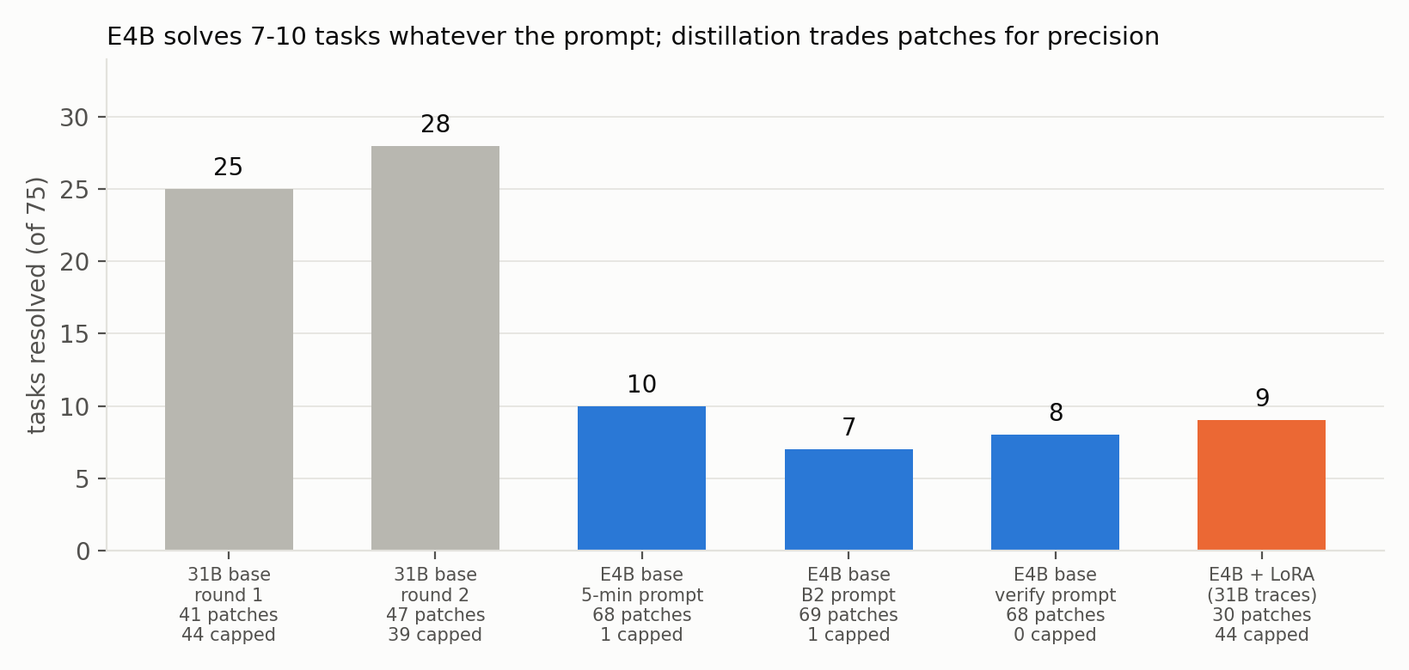
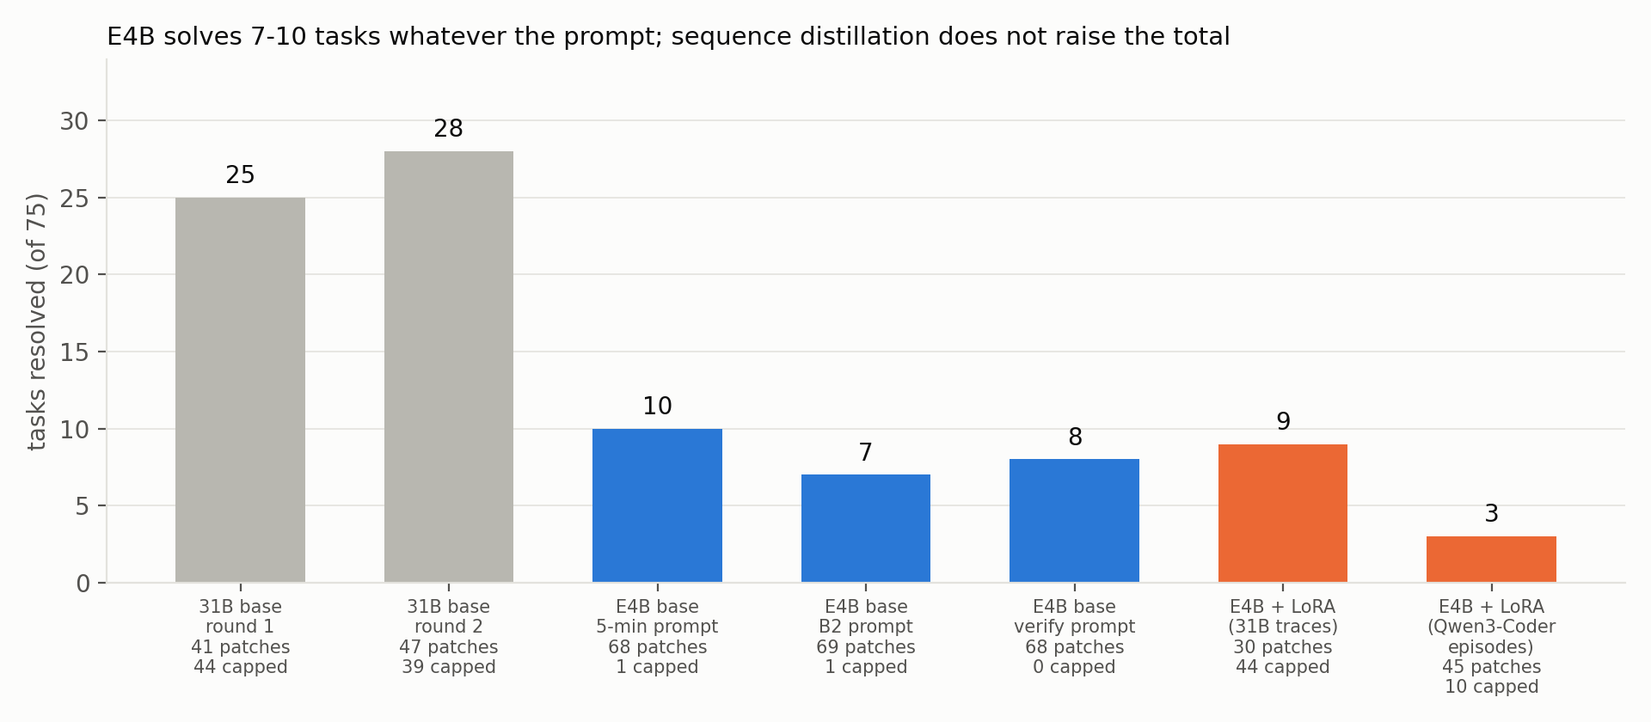
Relicense to Apache-2.0 (competition winner licence) with NOTICE; README reproduction guide; paper draft 4: findings, what transfers, figure order, appendix of all runs, Figure 6 with the Qwen3-Coder run; word count per host rule

Changed region(s): [[0.0, 0.1538, 0.9646, 0.9846], [0.0622, 0.0308, 0.8401, 0.0923], [0.0311, 0.1538, 0.0933, 0.1846]]

diff --git a/scripts/paper/count_words.py b/scripts/paper/count_words.py
@@ -1,15 +1,19 @@
-"""Word count of the paper draft (Kaggle Writeup limit: 3,000 words). Counts everything below the banner line, markdown syntax stripped, bracketed TODO items included.
+"""Word count of the paper draft (Kaggle Writeup limit: 3,000 words). Per the host (paper-track forum thread 749546), references do not count and an
+appendix is supplementary, so the counted body stops at "## References"; the editorial banner (lines starting with "> DRAFT") is excluded. Markdown syntax
+is stripped; bracketed placeholders count. Totals for references and the appendix are printed for information.
 Usage: python scripts/paper/count_words.py [docs/paper/DRAFT.md]"""
 import re, sys
 from pathlib import Path
 p = Path(sys.argv[1] if len(sys.argv) > 1 else "docs/paper/DRAFT.md")
-t = p.read_text(encoding="utf-8")
-body = "\n".join(l for l in t.splitlines() if not l.startswith("> DRAFT"))
-body = re.sub(r"[#*_`>|]", " ", body)
-words = re.findall(r"\S+", body)
-secs = re.split(r"\n(?=## )", t)
-print(f"total words: {len(words)} (limit 3000)")
-for s in secs:
-    head = s.splitlines()[0][:60]
-    n = len(re.findall(r"\S+", re.sub(r"[#*_`>|]", " ", s)))
-    print(f"  {n:5d}  {head}")
+t = "\n".join(l for l in p.read_text(encoding="utf-8").splitlines() if not l.startswith("> DRAFT"))
+body, _, tail = t.partition("\n## References")
+refs, _, appendix = tail.partition("\n## Appendix")
+
+
+def n(s):
+    return len(re.findall(r"\S+", re.sub(r"[#*_`>|]", " ", s)))
+
+
+print(f"counted words (body): {n(body)} (limit 3000) | references (not counted): {n(refs)} | appendix (supplementary): {n(appendix)}")
+for s in re.split(r"\n(?=## )", body):
+    print(f"  {n(s):5d}  {s.strip().splitlines()[0][:60]}")

diff --git a/scripts/paper/make_figures_2.py b/scripts/paper/make_figures_2.py
@@ -83,8 +83,12 @@ e4 = {"E4B base" + NL + "5-min prompt": R(D / "g14a_run1_2026-10-24/g14a/e4b/tas
       "E4B base" + NL + "verify prompt": R(D / "g14c_run1_2026-10-25/g14c/e4b_v/task_results.jsonl")}
 e4_lora = R(D / "g14b_run1_2026-10-25/g14b/e1/task_results.jsonl")
 bars = [("31B base" + NL + "round 1", runs["base r1"], GRAY), ("31B base" + NL + "round 2", runs["base r2"], GRAY)] + [(k, v, BLUE) for k, v in e4.items()] + [("E4B + LoRA" + NL + "(31B traces)", e4_lora, ORANGE)]
+bars.append(("E4B + LoRA" + NL + "(Qwen3-Coder" + NL + "episodes)", R(D / "g18_run1/g18/e1/task_results.jsonl"), ORANGE))
+_g21 = D / "g21_run1/g21/e1/task_results.jsonl"            # on-policy distillation; added once its results are downloaded
+if _g21.exists():
+    bars.append(("E4B + on-policy" + NL + "distillation", R(_g21), AQUA))
 summ = []
-fig, ax = plt.subplots(figsize=(8.2, 3.9), dpi=200)
+fig, ax = plt.subplots(figsize=(9.6, 4.2), dpi=200)
 for i, (lab, rr, col) in enumerate(bars):
     rows = list(rr.values())
     res_n, pat, cap = sum(r["resolved"] for r in rows), sum(r.get("agent_patch_size", 0) > 0 for r in rows), sum(kind(r) == "C" for r in rows)
@@ -96,7 +100,7 @@ ax.set_ylabel("tasks resolved (of 75)")
 ax.set_ylim(0, 34)
 ax.yaxis.grid(True, color=GRID, linewidth=0.6)
 ax.set_axisbelow(True)
-ax.set_title("E4B solves 7-10 tasks whatever the prompt; distillation trades patches for precision", loc="left", fontsize=10.5, color=INK)
+ax.set_title("E4B solves 7-10 tasks whatever the prompt; sequence distillation does not raise the total", loc="left", fontsize=10.5, color=INK)
 fig.tight_layout()
 fig.savefig(OUT / "fig6_small_model.png")
 plt.close(fig)

diff --git a/docs/paper/DRAFT.md b/docs/paper/DRAFT.md
@@ -1,37 +1,44 @@
 # Where the Gains Aren't: Noise, Bimodality and the Limits of LoRA Post-Training for a 4-bit Gemma 4 SWE Agent
 
-*Subtitle: a reproducible pipeline, a harness-ready task pool, and what a 12-hour sequential budget does to evaluation*
+*Subtitle (Kaggle subtitle field): a reproducible post-training pipeline on four 24 GB GPUs, a harness-verified task pool, and what a 12-hour sequential budget does to evaluation*
 
-> DRAFT 3 (2026-11-10). Open before submission: the G21 result (marked [G21]) in the abstract, Section 8 and the conclusion. Word count: `scripts/paper/count_words.py` (limit 3,000 including references).
+> DRAFT 4 (2026-11-10). Open before submission: the on-policy distillation result (marked [G21]) in the abstract, Section 8 and the conclusion. Word count: `scripts/paper/count_words.py`; references and the appendix do not count (host, forum thread 749546).
 
 ## Abstract
 
-We post-train and evaluate Gemma 4 as an autonomous issue-fixing agent under the Gemma 4 Developer Agent Competition's rules: a fixed 4-bit checkpoint on four L4 GPUs, a sequential scorer with a 12-hour budget, and hidden tasks from unseen repositories. (1) Evaluation is dominated by noise and task bimodality: the same agent bundle scored 0.17 and 0.13 on the public leaderboard, and of 75 local tasks attempted four times, 43 are never solved and 19 always. (2) Time binds, but not through speed: every resolved attempt finishes before the cap, a 2.1x faster 12B model solves fewer tasks, and in the scorer's sequential regime the 28-tool-call cap ends a third of attempts, yet raising it to 34 overran the 12 hours. (3) We release a pipeline for token-exact capture, memory-exact LoRA training of the 31B model on four 24 GB GPUs (sequence ceiling 10k to 18.4k tokens) and verified adapter serving; SFT on the model's own successes (28/75 and 22/75 vs base 25 and 28) and preference training on 28 own pairs (26/75) do not beat the base, and adapters cost ~10% decode speed. (4) We turn 898 SWE-rebench candidates into 171 harness-verified tasks from 142 repositories. (5) For the small E4B model (7-10/75, leaderboard 0.06) we test three distillation routes: imitating 31B successes raises precision but not the total; imitating 700 rewritten Qwen3-Coder trajectories gives 3/75 because a hindsight leak in our episode construction made 92% of its edits fail; and on-policy distillation, where the 31B scores every token of the E4B's own rollouts, [G21].
+Can a 4-bit Gemma 4 agent that fixes real GitHub issues offline be improved by post-training on four 24 GB GPUs? We study this under the Gemma 4 Developer Agent Competition's rules: a fixed checkpoint, a sequential scorer with a 12-hour budget, and hidden tasks. Evaluation is dominated by noise and task bimodality: one agent bundle scored 0.17 and 0.13 on the public leaderboard, and 62 of 75 local tasks have the same outcome in four attempts. Time binds through budgets, not speed: a 2.1x faster model solves fewer tasks, and in the scorer's regime the 28-tool-call cap ends a third of attempts, yet raising it overran the 12 hours. With a pipeline for token-exact capture, long-sequence LoRA training and verified adapter serving, SFT and preference training on the model's own trajectories do not beat the 31B base (22-28 vs 25-28 of 75). For the small E4B model, imitating 31B successes or rewritten Qwen3-Coder trajectories does not help either, the latter because a hindsight leak made 92% of its edits fail; on-policy distillation, where the 31B grades every token of E4B's own rollouts, [G21]. We release the code, a 171-task harness-verified pool and a pre-registered protocol.
 
 ## 1. Introduction
 
-Local coding agents are limited by two things the usual benchmark protocol hides: a hard wall-clock budget and the variance of a few dozen hidden tasks. The competition makes both explicit. Participants may change prompts, tools, sampling, per-task limits and LoRA adapters; the model is a fixed 4-bit Gemma 4 variant and the scorer runs tasks one after another within 12 hours. Public scores of prompt-only agents cluster at 0.15-0.24, and the community has reported no LoRA that beats the base model.
+The competition asks for an autonomous coding agent that runs offline on everyday hardware: a fixed 4-bit Gemma 4 model, adaptable only through prompts, tools, sampling, per-task limits and LoRA adapters, scored sequentially on hidden issues from unseen repositories within 12 hours. Prompt-only agents cluster at 0.15-0.24 on the public leaderboard and nobody has reported a LoRA that beats the base model. We set out to find post-training that works and to explain why it is hard. Every evaluation had a decision rule written down before its result (the repository's commit dates show the order).
 
-We ask what actually moves such an agent and what would let post-training work. Contributions: (i) a measurement protocol and noise floor for this regime; (ii) an analysis of where the clock goes, including the scorer's sequential regime; (iii) an open pipeline and pre-registered null results for LoRA post-training of the 31B model; (iv) a method and artefacts for building verified, harness-compatible tasks; (v) three distillation routes for the E4B model, including token-level on-policy distillation from the 31B. Code: https://github.com/JayGupta2003/gemma4-swe-agent-posttraining (MIT); competition data are not redistributed.
+**Findings.**
+1. *Evaluation is the bottleneck.* Identical files score 0.17 and 0.13; most tasks are always or never solved, which bounds anything learned from a model's own samples (Section 3).
+2. *Budgets, not speed, decide outcomes.* Faster decoding and shorter thinking do not convert failures; in sequential scoring the tool-call cap binds and also governs total runtime (Section 4).
+3. *LoRA imitation and preference training of the 31B model are nulls* even on 54 unseen repositories, and adapters cost ~10% decode speed (Sections 5-6).
+4. *Harness-verified tasks* need the scorer's own sandbox conventions; we build 171 from SWE-rebench (Section 7).
+5. *Distilling into the small model:* sequence imitation shifts behaviour without adding skill, trajectory rewriting must not leak the answer, and token-level on-policy distillation [G21] (Section 8).
+
+Code (Apache-2.0): https://github.com/JayGupta2003/gemma4-swe-agent-posttraining; competition data are not redistributed.
 
 ## 2. Setting
 
-Agent: a Google ADK single agent with tools run_command, read_file, edit_file, write_file, submit_patch; model gemma-4-31b-it-qat-w4a16-ct on vLLM (tensor parallel 4, 32,768-token context, event compaction at 14,336 tokens). Scoring: the submitted patch must make hidden tests pass; one submission per day. Our baseline (B1) uses temperature 0.2, thinking budget 4,096, output cap 8,192 and a 5-minute cap; B2 uses the community recipe's 8 minutes / 28 tool calls. Local evaluation uses the scorer's harness (swegemma 0.2.11) on the 75 competition tasks whose reference patch passes in our environment, four attempts concurrently, which is ~1.5x harsher per cap-minute than the sequential scorer (24 vs 37 tokens/s per request). Every evaluation had a decision rule written down before its result; the commit history records the dates.
+The agent is a Google ADK single agent with tools run_command, read_file, edit_file, write_file and submit_patch; the model gemma-4-31b-it-qat-w4a16-ct runs on vLLM (tensor parallel 4, 32,768-token context, event compaction at 14,336 tokens). A submission resolves a task if its patch makes the hidden tests pass; one submission per day. Our baseline uses temperature 0.2, thinking budget 4,096, output cap 8,192 and a 5-minute cap; the community recipe (B2) uses 8 minutes and 28 tool calls. Local evaluation runs the scorer's harness (swegemma 0.2.11) on the 75 competition tasks whose reference patch passes in our environment, four attempts concurrently, which is ~1.5x harsher per cap-minute than the sequential scorer (24 vs 37 tokens/s per request). Appendix A lists every run with data, hyperparameters, compute, rule and result.
 
 ## 3. Noise and bimodality
 
-*Leaderboard.* Our submissions scored 0.12 (baseline), 0.13 and 0.15 (B1), 0.17 and 0.13 (B2, byte-identical files) on 58 public tasks (one task = 0.017). Community reports give 7-13 of 58 for identical files, and one team found that configurations tied at 28/74 locally scored 0.17 and 0.10 hidden. Differences of 0.02-0.04 are indistinguishable.
+*Leaderboard.* Our submissions scored 0.12 (baseline), 0.13 and 0.15 (5-minute prompt), and 0.17 and 0.13 for two runs of byte-identical B2 files, on 58 public tasks (one task = 0.017). Community reports agree (7-13 of 58 for identical files; configurations tied locally scoring 0.17 and 0.10 hidden). Differences of 0.02-0.04 are indistinguishable.
 
-*Local.* Two rounds of the same agent solve 25 and 28 of 75 tasks; 7 of the 30 tasks ever solved flip between rounds. With four attempts, 43 tasks are never solved, 19 always, 13 mixed (17%). Outcomes are set mostly by the task, which caps what learning from the model's own samples can achieve: tasks with solve probability 0 or 1 carry no contrast. *Temperature 1.0* (top_p 0.95, top_k 64) resolves 29/75 (base 25 and 28) and raises round-to-round disagreement by ~50% (9-13 vs 5-8 tasks) without raising the count. On the 171-task pool, rounds at 0.2, 1.0 and 1.0 resolve 55, 55 and 52; 100 tasks are never solved and 34 always, and 24 of the 26 tasks that differ between the first two rounds are *solved vs ran out of clock*, not *solved vs wrong patch*.
+*Local.* Two rounds of the same agent solve 25 and 28 of 75; 7 of the 30 tasks ever solved flip. With four attempts, 43 tasks are never solved, 19 always and 13 are mixed (Figure 1). Tasks with solve probability 0 or 1 carry no contrast for learning from the model's own samples. *Temperature 1.0* (top_p 0.95, top_k 64) resolves 29/75 and raises round-to-round disagreement by ~50% (9-13 vs 5-8 tasks) without raising the count. On the 171-task pool, rounds at 0.2, 1.0 and 1.0 resolve 55, 55 and 52; 100 tasks are never solved, 34 always, and 24 of the 26 tasks that differ between the first two rounds are *solved vs ran out of clock*, not *solved vs wrong patch* (Figure 2).
 
 ![Figure 1](figures/fig1_bimodal.png)
-*Figure 1. Number of attempts (of four) that resolved each of 75 competition tasks. Blue: the 62 tasks whose outcome never changed.*
+*Figure 1. Number of attempts (of four) that resolved each of the 75 competition tasks. Blue: the 62 tasks whose outcome never changed.*
 
 | submission | per-task limits | public score |
 |---|---|---|
 | baseline | 5 min | 0.12 |
-| B1 | 5 min | 0.13, 0.15 |
-| B1 + G3 adapter | 5 min | 0.08 |
+| 5-minute prompt (B1) | 5 min | 0.13, 0.15 |
+| B1 + SFT adapter | 5 min | 0.08 |
 | B2 | 8 min / 28 tool calls | 0.17, 0.13 (identical files) |
 | B3 (B2 + thinking 2,048) | 8 min / 28 tool calls | 0.15 |
 | B4 (B3 + 34 tool calls) | 8 min / 34 tool calls | exceeded 12 h, no score |
@@ -39,23 +46,23 @@ Agent: a Google ADK single agent with tools run_command, read_file, edit_file, w
 
 *Table 1. Our public leaderboard scores (58 tasks; one task = 0.017).*
 
-![Figure 5](figures/fig5_pool_rounds.png)
-*Figure 5. The 171-task pool in three rounds of the 31B (temperature 0.2, 1.0, 1.0; 5-minute cap). Left: outcomes. Right: in how many rounds each task is solved.*
+![Figure 2](figures/fig5_pool_rounds.png)
+*Figure 2. The 171-task pool in three rounds of the 31B (temperature 0.2, 1.0, 1.0; 5-minute cap). Left: outcomes. Right: in how many rounds each task is solved.*
 
 ## 4. Where the clock goes
 
-In 171 pool attempts (5-minute cap), all 55 resolved attempts finished before the cap and all 86 capped attempts failed, including 51 that had written a patch. Capped attempts make fewer calls than successes (median 11 vs 14) but each is slower (18 s vs 12 s of model time), 34 of 86 never edited anything, and tool execution is negligible (2-8 s per attempt). Across 3,023 requests, time = 0.74 s + 0.042 s per completion token (R² 0.988): decoding is 98% of model time, prefill ~0 (prefix caching), and reasoning is 74% of generated text.
+In 171 pool attempts (5-minute cap), all 55 resolved attempts finished before the cap and all 86 capped attempts failed, including 51 that had written a patch. Capped attempts make fewer calls than successes (median 11 vs 14) but each is slower (18 s vs 12 s of model time), and 34 of 86 never edited anything (Figure 3). Across 3,023 requests, time = 0.74 s + 0.042 s per completion token (R² 0.988): decoding is 98% of model time, prefill ~0 (prefix caching), and reasoning is 74% of generated text. Tool execution is negligible (2-8 s per attempt), and the code-graph tools the harness offers were called twice in 104 early attempts.
 
-*Faster is not better.* The 12B variant decodes 2.1x faster but writes 1.6-1.8x more per call, is capped more often (57/75 vs 44 and 39) and resolves 17/75 vs 25 and 28. Thinking budgets of 2,048 and 1,024 make 31B requests ~20% faster without losing accuracy (12 and 11 of 32 vs 10 and 11) but do not change the capped share.
+*Faster is not better.* The 12B variant decodes 2.1x faster but writes 1.6-1.8x more per call, is capped more often (57/75 vs 44 and 39) and resolves 17/75 vs 25 and 28. Thinking budgets of 2,048 and 1,024 make 31B requests ~20% faster without losing accuracy (12 and 11 of 32 vs 10 and 11) but leave the capped share unchanged.
 
-*The scorer's regime.* Run sequentially like the scorer (B2, 24 tasks), the 31B resolves 9/24, in line with local rounds, but the binding limit changes: the 28-tool-call cap ends 9 of 24 attempts, more than the clock (5), 6 of them with an empty patch and 4 with 2.8-5.3 minutes left. Raising the cap to 34 (B4) exceeded the 12-hour total on the hidden set: the per-task call cap is also what keeps the whole run inside the budget, and local timing does not predict the hidden run's length.
+*The scorer's regime.* Run sequentially like the scorer (B2, 24 tasks), the 31B resolves 9/24, in line with local rounds, but the binding limit changes: the 28-tool-call cap ends 9 attempts, more than the clock (5), 6 of them with an empty patch and 4 with 2.8-5.3 minutes left. Raising the cap to 34 (B4) exceeded the 12-hour total on the hidden set: the per-task call cap is also what keeps the whole run inside the budget, and local timing does not predict the hidden run's length.
 
-![Figure 2](figures/fig2_clock.png)
-*Figure 2. 171 pool attempts by outcome: median model calls per attempt (left) and mean model seconds per call (right).*
+![Figure 3](figures/fig2_clock.png)
+*Figure 3. 171 pool attempts by outcome: median model calls per attempt (left) and mean model seconds per call (right).*
 
 ## 5. A pipeline for post-training the 31B model on four 24 GB GPUs
 
-*Training model.* The scored checkpoint is 4-bit and cannot take LoRA; we train on its bf16 QAT-unquantized sibling with LoRA (r=16, alpha=32, attention+MLP, 122M parameters), staging the 62.5 GB checkpoint from network storage to local disk (200 s). Stock layers fit ~10k tokens; exact sequence-chunked decoder layers with per-chunk checkpointing (verified equal to stock at the real dimensions) and a chunked lm-head loss raise the ceiling to 18,432 tokens at 81 tokens/s. A genuine OOM leaves tensors allocated under non-reentrant checkpointing, so we train first and probe limits afterwards.
+*Training model.* The scored checkpoint is 4-bit and cannot take LoRA; we train its bf16 QAT-unquantized sibling with LoRA (r=16, alpha=32, attention+MLP, 122M parameters), staging the 62.5 GB checkpoint from network storage to local disk (200 s). Stock layers fit ~10k tokens; exact sequence-chunked decoder layers with per-chunk checkpointing (verified equal to stock at the real dimensions) and a chunked lm-head loss raise the ceiling to 18,432 tokens at 81 tokens/s. A genuine out-of-memory error leaves tensors allocated under non-reentrant checkpointing, so we train first and probe limits afterwards.
 
 *Token-exact capture.* A logging reverse proxy between the harness and vLLM records every request with exact prompt and completion token ids (identical to /tokenize). Each prompt extends the previous one token-exactly; re-rendered assistant turns differ from the generated tokens by at most one token in 99% of pairs. Training sequences are the final prompt plus completion, with loss on every assistant span.
 
@@ -63,21 +70,21 @@ In 171 pool attempts (5-minute cap), all 55 resolved attempts finished before th
 
 ## 6. LoRA post-training of the 31B does not help
 
-*G3:* 70 sequences (0.83M tokens) from the 30 tasks the base solved, one epoch: 28/75, same as the base; leaderboard 0.08. *G11:* 71 sequences from 54 tasks in 54 other repositories, two epochs, evaluated on the 75 competition tasks, all unseen: 22/75 (base 25 and 28), more capped attempts (50 vs 44 and 39), no task the base never solved; training loss fell 0.076 to 0.038, i.e. the model memorised its own successes. Other teams report the same with 314-2,000 teacher trajectories. *Preference pairs (RPO):* from the three pool rounds, chosen = fastest solved attempt and rejected = slowest unsolved one give 34 pairs, 30 of them against a capped attempt, so the signal mostly teaches finishing sooner. One epoch on the 28 cheapest pairs gives 26/75, 48 patches (base 41, 47), 45 capped (44, 39) and an unchanged median of 16 calls: a null. The implicit reward margin was positive on 19 of 28 steps, but the chosen sequences' log-probability fell by up to 226 nats (DPO's likelihood displacement).
+*SFT on the base's own successes:* 70 sequences (0.83M tokens) from the 30 tasks the base solved, one epoch: 28/75, same as the base; leaderboard 0.08. *SFT across repositories:* 71 sequences from 54 tasks in 54 other repositories, two epochs, evaluated on the 75 competition tasks, all unseen: 22/75 (base 25 and 28), more capped attempts (50 vs 44 and 39), no task the base never solved; training loss fell from 0.076 to 0.038, i.e. the model memorised its own successes. Other teams report the same with 314-2,000 teacher trajectories. *Preference pairs (RPO [7]):* from the three pool rounds, chosen = fastest solved attempt and rejected = slowest unsolved one give 34 pairs, 30 of them against a capped attempt, so the signal mostly teaches finishing sooner. One epoch on the 28 cheapest pairs gives 26/75, 48 patches (base 41, 47), 45 capped (44, 39) and an unchanged median of 16 calls: a null. The implicit reward margin was positive on 19 of 28 steps, but the chosen sequences' log-probability fell by up to 226 nats, DPO's likelihood displacement (Figure 4).
 
-![Figure 3](figures/fig3_sft_nulls.png)
-*Figure 3. Tasks resolved of 75 (same harness, prompt and 5-minute cap) and number of capped attempts. Gray: base; blue: LoRA adapters.*
+![Figure 4](figures/fig3_sft_nulls.png)
+*Figure 4. Tasks resolved of 75 (same harness, prompt and 5-minute cap) and capped attempts. Gray: base; blue: LoRA adapters.*
 
 ## 7. Building verified, harness-compatible tasks
 
-From SWE-rebench [6] (6,542 filtered tasks) we selected 898 candidates (difficulty <= 2, <= 5 modified files, <= 4 per repository, no competition repositories). A CPU notebook validated each in a clean Python 3.12 environment (target tests fail with the test patch, pass with the gold patch): 318 valid + 43 nearly valid. The harness's own verification is stricter (all tests in touched files must pass; a skipped required test fails): 176 of 359 gold patches pass and 5 also pass with an empty patch (dropped), leaving **171 tasks from 142 repositories**; the unchanged 31B resolves 55. Pilots showed how the sandbox decides solvability: the subprocess sandbox never injects wheels, entries added through .pth files silently override system packages, and pytest auto-loads every package's pytest11 entry point, so one unrelated plugin crashed all 12 pilot tasks until the entry points were stripped.
+From SWE-rebench [6] (6,542 filtered tasks) we selected 898 candidates (difficulty <= 2, <= 5 modified files, <= 4 per repository, no competition repositories). A CPU notebook validated each in a clean Python 3.12 environment (target tests fail with the test patch, pass with the gold patch): 318 valid + 43 nearly valid. The harness's own verification is stricter (all tests in touched files must pass; a skipped required test fails): 176 of 359 gold patches pass and 5 also pass with an empty patch (dropped), leaving **171 tasks from 142 repositories**; the unchanged 31B resolves 55, the E4B 25 (Figure 5). Pilots showed how the sandbox decides solvability: the subprocess sandbox never injects wheels, entries added through .pth files silently override system packages, and pytest auto-loads every package's pytest11 entry point, so one unrelated plugin crashed all 12 pilot tasks until the entry points were stripped.
 
-![Figure 4](figures/fig4_task_funnel.png)
-*Figure 4. From 898 SWE-rebench candidates to the 171-task pool.*
+![Figure 5](figures/fig4_task_funnel.png)
+*Figure 5. From 898 SWE-rebench candidates to the 171-task pool.*
 
 ## 8. The small model: three routes to distil into E4B
 
-The competition rewards the best private score with the 8B-parameter E4B. Under the B2 budget the unmodified E4B resolves **10, 7 and 8 of 75** under three prompts, every solved task being one the 31B also solves; it is fast (114-125 s per task, at most one capped attempt) and scores 0.06 on the leaderboard. Its tokenizer and chat template reproduce real 31B prompts token for token (60/60 captured requests), so sequences and token-level scores transfer between the two models.
+E4B (8B parameters, 4-bit) is the model that fits on a laptop, and the competition rewards its best private score separately. Under the B2 budget the unmodified E4B resolves **10, 7 and 8 of 75** under three prompts, every solved task being one the 31B also solves; it is fast (114-125 s per task, at most one capped attempt) and scores 0.06 on the leaderboard. Its tokenizer and chat template reproduce real 31B prompts token for token (60/60 captured requests), so sequences and token-level scores transfer between the two models (Figure 6).
 
 *Imitating 31B successes.* LoRA (34.9M parameters) on the 71 31B-resolved pool sequences: 9/75. Among finished attempts precision rises (29% vs 17%), but the adapter explores until the call budget is spent, then repeats `submit_patch` with an empty patch hundreds of times (the harness does not end the session), so only 30 attempts write a patch (base 68).
 
@@ -88,17 +95,21 @@ The competition rewards the best private score with the 8B-parameter E4B. Under 
 ![Figure 6](figures/fig6_small_model.png)
 *Figure 6. Tasks resolved of 75 by the 31B and the E4B, with patches written and capped attempts under each bar.*
 
-## 9. Related work
+## 9. What transfers beyond this competition
 
-SWE-bench [1] and SWE-agent [2] define the task and interface. Training on verified trajectories is studied in SWE-Gym [3], SWE-smith [4] and R2E-Gym [5], mostly with full fine-tuning of 7-32B models and thousands of trajectories; SWE-rebench [6] is our task source. Preference optimisation with a likelihood term [7] and trial-and-error pairs [8] motivate our preference design; on-policy distillation [11, 12] our E4B method. LoRA [9] and DPO [10] are the underlying methods.
+Four results do not depend on Gemma or this harness. (i) *Protocol:* with outcomes this bimodal, single-run comparisons of agent variants are noise; pre-registered paired rounds and repeated identical submissions are the cheap instruments. (ii) *Hindsight leakage:* any conversion of successful trajectories into shorter training episodes must keep only steps whose inputs the student could have chosen without the answer; edit-failure rate is a quick detector. (iii) *Top-k distillation from a serving engine:* teacher top-k log-probabilities from any vLLM-compatible server give an exact coarse-grained KL with a known remainder bucket, so on-policy distillation needs no teacher logits in the training process; memory for prompt log-probabilities scales with chunk length times vocabulary. (iv) *Infrastructure:* the capture proxy works for any OpenAI-compatible agent, the chunked decoder layers make long-sequence LoRA fit on 24 GB GPUs, and the sandbox lessons apply to any pytest-based harness.
 
-## 10. Limitations
+## 10. Related work
+
+SWE-bench [1] and SWE-agent [2] define the task and interface. Training on verified trajectories is studied in SWE-Gym [3], SWE-smith [4] and R2E-Gym [5], mostly with full fine-tuning of 7-32B models and thousands of trajectories; SWE-rebench [6] is our task source, and FreshSWE-Py [13] is a community pool of 663 post-release tasks in the competition's layout. Preference optimisation with a likelihood term [7] and trial-and-error pairs [8] motivate our preference design; on-policy distillation [11, 12] our E4B method. LoRA [9] and DPO [10] are the underlying methods.
+
+## 11. Limitations
 
 One model family; three repositories dominate the 75 local tasks; single rounds with a paired noise of +-3 tasks; no hidden-set evidence of any adapter gain; E4B rounds of 7-10 tasks that a few flips can reorder; leaderboard numbers and community results are single runs or unverified forum reports; most local timing is concurrent while the scorer is sequential.
 
-## 11. Conclusion and release
+## 12. Conclusion and release
 
-Under a sequential 12-hour budget, noise and task bimodality set the ceiling of evaluation, the per-task budgets bind the whole run, and LoRA imitation of typical successes adds nothing while costing speed. For the small model, sequence imitation either shifts behaviour without adding skill or, if episodes leak the answer, teaches unrealisable shortcuts; [G21]. What transfers is the machinery: exact capture, memory-exact training, adapter verification, a verified-task pipeline, teacher scoring at token level and the protocol to read results honestly. Code, scripts, task IDs (not task text) and notebooks: https://github.com/JayGupta2003/gemma4-swe-agent-posttraining (MIT).
+Under a sequential 12-hour budget, noise and task bimodality set the ceiling of evaluation, per-task budgets bind the whole run, and LoRA imitation of typical successes adds nothing while costing speed. For the small model, sequence imitation either shifts behaviour without adding skill or, if episodes leak the answer, teaches unrealisable shortcuts; [G21]. What transfers is the machinery and the protocol: exact capture, memory-exact training, adapter verification, a verified-task pipeline, token-level teacher scoring and pre-registered decisions. Code, task IDs (not task text), notebook generators and the full experiment log: https://github.com/JayGupta2003/gemma4-swe-agent-posttraining (Apache-2.0).
 
 ## References
 [1] Jimenez et al. SWE-bench: Can Language Models Resolve Real-World GitHub Issues? ICLR 2024. arXiv:2310.06770.
@@ -113,3 +124,28 @@ Under a sequential 12-hour budget, noise and task bimodality set the ceiling of 
 [10] Rafailov et al. Direct Preference Optimization. arXiv:2305.18290.
 [11] Agarwal et al. On-Policy Distillation of Language Models: Learning from Self-Generated Mistakes. ICLR 2024. arXiv:2306.13649.
 [12] Gu et al. MiniLLM: On-Policy Distillation of Large Language Models. arXiv:2306.08543.
+[13] FreshSWE-Py. Community Kaggle dataset moshegolderson/freshswe-py, 2026.
+
+## Appendix A. Every run (supplementary)
+
+All GPU runs: Kaggle notebooks on 4x L4, offline; quota hours = 2x wall hours. Notebook generators are in the repository (`scripts/`), kernel ids are noobhunterjay/gemma-4-<id>; LoRA r=16, alpha=32 on attention and MLP projections throughout. Rules and full results: `docs/STRATEGY.md`.
+
+| run | what | data | settings | quota h | rule (before the run) | result |
+|---|---|---|---|---|---|---|
+| Exp1-3 | prompt arms, 31B | 30 / 48 / 48 tasks | edit-early, no-repro, lean prompt, thinking 1,024 | - | +5 resolved and no repo worse | no arm passed; identical prompt 23 vs 18 of 48 |
+| G1 | training/serving spike | 63 sequences | chunked layers, activation offload | ~7 | >= 60 tok/s, adapter active, decode >= 0.85x | passed; ceiling 10k -> 18.4k tokens |
+| G2 | capture base rounds | 75 tasks x 2 | B1, 5 min | 6.2 | capture ids == /tokenize | 25, 28; ids identical |
+| G3 | SFT on own successes | 70 seq, 30 tasks | lr 2e-4, 1 epoch, 35 steps | 9.4 | >= ~34/75 | 28/75; LB 0.08 |
+| G5 | 12B base | 75 tasks | B1 | - | - | 17/75, 57 capped |
+| G10 | pool round p1 | 171 pool tasks | B1, T 0.2 | 7.2 | - | 55/171 |
+| G11 | SFT across repos | 71 seq, 54 repos | lr 2e-4, 2 epochs, 72 steps | 15.6 | >= ~34/75 or new tasks | 22/75 |
+| G12 | thinking budgets | 32 tasks | 2,048/4,096 and 1,024/3,072 | 3.9 | long-turn time share halves | 12, 11 vs 10, 11; capped unchanged |
+| G13 | temperature 1.0 | 75 tasks | T 1.0, top_p 0.95, top_k 64 | 3.8 | mixed tasks for pairs | 29/75; flips +50% |
+| G14a/c | E4B base, 3 prompts | 75 tasks | B2 budget | 5.5 | >= 14/75 | 10, 7, 8 |
+| G14b | E4B SFT on 31B successes | 71 seq | lr 2e-4, 2 epochs | 8.0 | >= 14/75, >= 60 patches, <= 5 capped | 9/75, 30 patches, 44 capped |
+| G15/G16 | pool rounds p2, p3 | 171 tasks | T 1.0 | 14.5 | >= 25 flips, >= 40 pairs | 55, 52; 57 pairs |
+| G17 | RPO on own pairs | 28 pairs | beta 0.1, NLL 1.0, lr 1e-4, 28 steps | 9.4 | >= 34/75 or <= 35 capped with >= 28 | 26/75, 45 capped |
+| G18 | E4B SFT on rewritten Qwen3-Coder episodes | 700 episodes, 597 repos | lr 1e-4, 1 epoch, 350 steps | 9.0 | >= 16/75, >= 55 patches, <= 8 capped | 3/75; 92% edit failures |
+| G19 | B2 sequential (scorer regime) | 24 tasks | concurrency 1 | 4.6 | - | 9/24; call cap ends 9 |
+| G20/G20b | E4B pool rollouts + 31B scoring | 171 tasks; 244 segments | prompt_logprobs top-8, 512-token chunks | 4.8 | - | 25/171; 2.93M tokens scored |
+| G21 | E4B on-policy distillation | 244 segments, 712k loss tokens | coarse top-8 reverse KL, lr 1e-4, 1 epoch, 122 steps | [G21] | >= 15/75 candidate, 12-14 weak, <= 11 null | [G21] |

diff --git a/README.md b/README.md
@@ -35,10 +35,22 @@ Captures and trained adapters are not included (they contain competition task te
 
 ## Reproducing
 
-1. Join the competition, attach the wheelhouse dataset `metric/gemma-4-developer-agent-wheelhouse` and the Gemma 4 models, and use an L4x4 session attached to the competition (L4s are only granted to notebooks with the competition as a source).
-2. Generate a notebook, e.g. `python scripts/g21/make_g21_notebook.py`, upload its dataset, then `kaggle kernels push -p kaggle_assets/g21`.
-3. Local tests (no GPU needed for most): `python scripts/g20/test_opd_score.py`, `python scripts/g20/test_train_opd.py` (needs transformers 5.x + peft), `python scripts/g15/test_build_pairs.py`.
+**Compute.** Every GPU run is a Kaggle notebook on 4x NVIDIA L4 (24 GB each), offline. L4s are only granted to notebooks that list the competition as a data source (`competition_sources` in each `kernel-metadata.json`); otherwise Kaggle silently assigns a T4x2 and vLLM fails on bf16. Kaggle bills L4x4 at 2x, and the weekly quota is 30 h, so one 31B training run plus evaluation (~5 h wall) uses about a third of a week.
+
+**Environment.** The notebooks install the competition harness from the dataset `metric/gemma-4-developer-agent-wheelhouse` (swegemma 0.2.11, adk_submission 0.2.13, vLLM 0.19.1; Kaggle image pinned in each `kernel-metadata.json`). Models: `google/gemma-4` variants `gemma-4-31b-it-qat-w4a16-ct` and `gemma-4-e4b-it-qat-w4a16-ct` (served, scored) and their `*-qat-q4_0-unquantized` bf16 siblings (trained). Local tooling: Python 3.11+, `kaggle` CLI 2.2+; local trainer tests need transformers 5.13 + peft 0.19 (a venv that mirrors Kaggle's versions).
+
+**Running an experiment.**
+1. Look up the experiment in `docs/STRATEGY.md` (or the paper's appendix table): it names the generator script, the Kaggle kernel id, the input datasets, the decision rule and the result.
+2. Build its inputs. Example (on-policy distillation): `python scripts/g20/build_opd_dataset.py <capture.jsonl.gz> <teacher_scores.npz> <teacher_meta.json> <out_dir>` from the outputs of the G20 and G20b kernels, then upload `<out_dir>` as a Kaggle dataset.
+3. Generate and push the notebook: `python scripts/g21/make_g21_notebook.py && kaggle kernels push -p kaggle_assets/g21`. Each notebook checks it got 4x L4, gates on a 2-4 task smoke round before the long round, and writes a `*_summary.json` with the numbers the paper reports.
+4. Fetch results: `kaggle kernels output <kernel id> -p <dir> --file-pattern "summary|task_results"` (the output listing pages 20 files, so use a pattern).
+
+**Submissions.** Build `submission.zip` only with `python scripts/build_submission_zip.py <out.zip> <submission_dir>` (POSIX entry names), check it on Linux with `scripts/make_zip_check_notebook.py`, then submit with `scripts/submit_pinned_zip.py <submission_dir> <sha256 prefix> "<message>"`.
+
+**Tests (no GPU).** `python scripts/g20/test_opd_score.py`, `python scripts/g20/test_train_opd.py` (tiny random Gemma 4; checks that a teacher equal to the student gives loss 0), `python scripts/g15/test_build_pairs.py`, `python scripts/g15/test_train_rpo.py`, `python scripts/g18/test_teacher_convert.py`, `python scripts/g2/test_capture_proxy.py`.
+
+**Commit hashes.** `docs/STRATEGY.md` cites hashes of the original local history; `docs/commit_map.tsv` maps them to the published ones (the history was rewritten once before publication, see its header). Commit dates are unchanged and show that each decision rule was recorded before its result.
 
 ## Licence
 
-MIT, see [LICENSE](LICENSE).
+Apache License 2.0, see [LICENSE](LICENSE) and [NOTICE](NOTICE). The agent prompts in `submission*/prompts/` are adapted from the competition's sample submission.

diff --git a/docs/paper/tables_2.md b/docs/paper/tables_2.md
@@ -8,6 +8,7 @@
 | E4B base B2 prompt | 7 | 69 | 1 | 125 | 12 |
 | E4B base verify prompt | 8 | 68 | 0 | 117 | 12 |
 | E4B + LoRA (31B traces) | 9 | 30 | 44 | 393 | 33 |
+| E4B + LoRA (Qwen3-Coder episodes) | 3 | 45 | 10 | 137 | 9 |
 
 E4B base rounds: union 14 tasks; solved in at least 2 of the 3 rounds: 6; all 14 are also solved by the 31B in some round: True.
 
